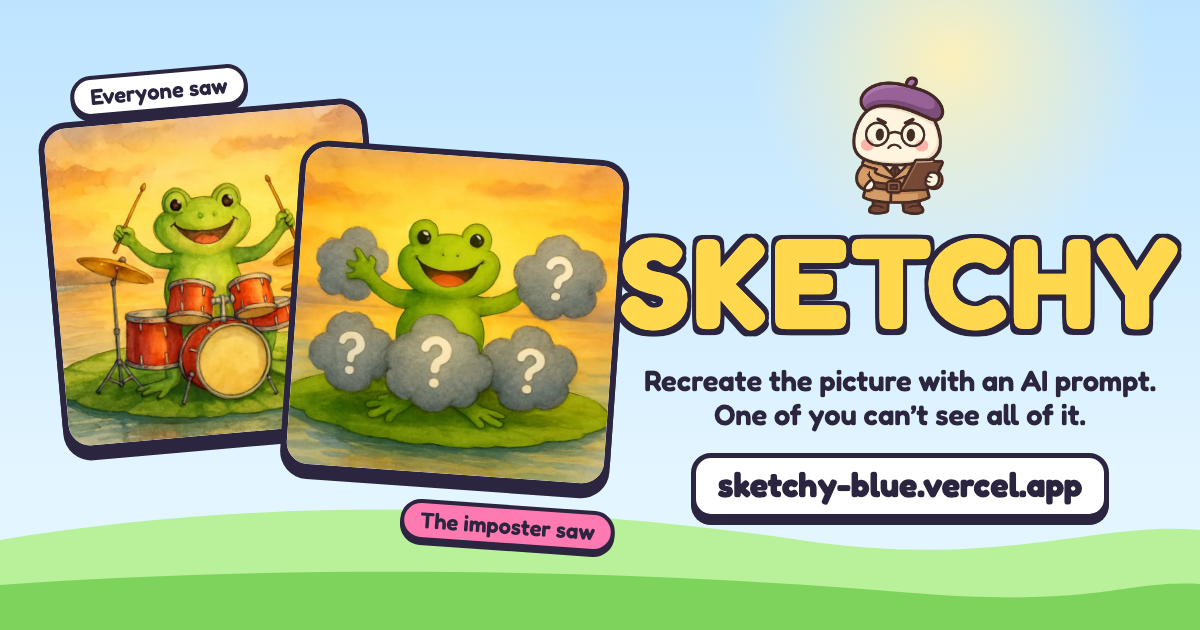
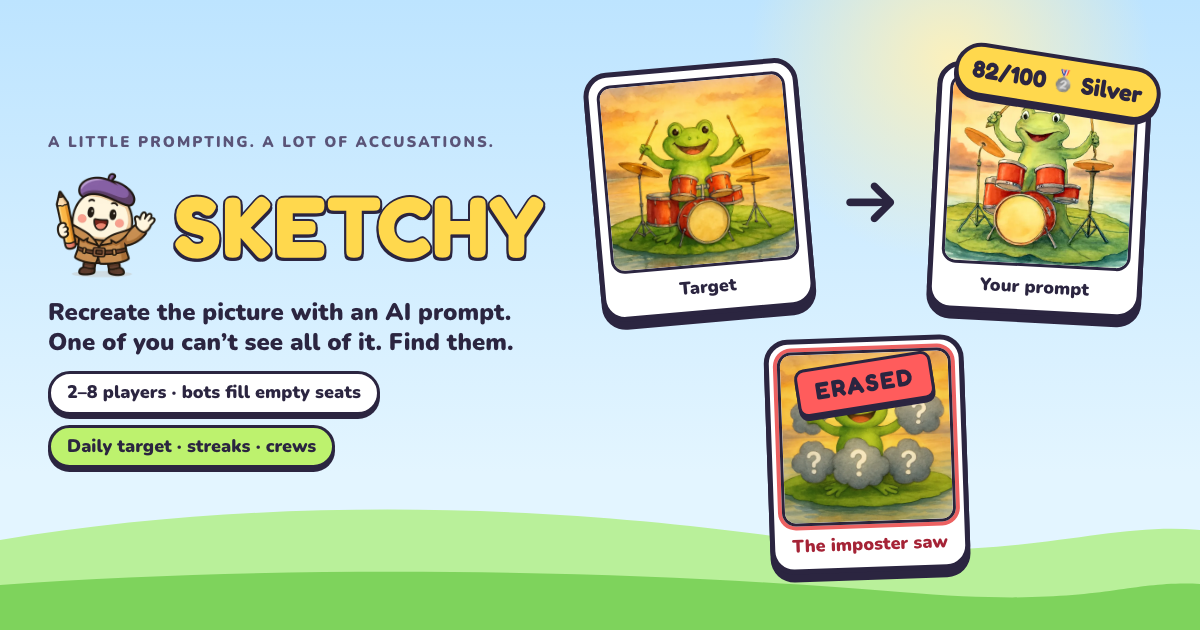
New link-preview cover from the current look (target → AI recreation with tier, imposter's erased view); crews can host a game that appears on every member's card

diff --git a/client/src/screens/Cover.tsx b/client/src/screens/Cover.tsx
@@ -1,22 +1,41 @@
 import { Mascot } from '@/design/components';
+import { DEMO_BOTS, targetById, matchOf } from '../../../convex/targets';
+import { tierInfo, tierOf } from '@shared/types';
+import './cover.css';
 
-/** Submission key art: a sticker-book accusation, composed at exactly 1200 × 630. */
+/**
+ * Key art / link preview, composed at exactly 1200 × 630 and screenshotted into client/public/og.png
+ * (`node --import tsx scripts/make-cover.ts`). Same ingredients as the home page: the sky, the hills, the mascot,
+ * a real target next to a real AI recreation with its score and tier, and what the imposter saw.
+ */
 export function Cover() {
-  return <div className="cover cover--key-art">
-    <div className="cover__hill" />
-    <div className="cover__copy">
-      <span className="cover__eyebrow">DRAW. BLUFF. BUST YOUR FRIENDS.</span>
-      <h1 className="cover__title gold-text">SKETCHY</h1>
-      <p className="cover__sub">One prompt.<br />One imposter.<br />The AI has opinions.</p>
-      <span className="cover__pill">THE AI DRAWING PARTY GAME</span>
+  const t = targetById('frog-band')!;
+  const bot = DEMO_BOTS['frog-band']?.artists[0];
+  const score = bot ? matchOf(bot.final) : 82;
+  const tier = tierInfo(tierOf(score));
+  return (
+    <div className="cover">
+      <div className="cover__sun" />
+      <svg className="cover__hills" viewBox="0 0 1200 150" preserveAspectRatio="none" aria-hidden>
+        <path d="M0 60 C 300 10 600 30 800 60 S 1100 40 1200 50 L1200 150 L0 150Z" fill="#B9F09A" />
+        <path d="M0 105 C 350 80 700 95 900 112 S 1120 100 1200 104 L1200 150 L0 150Z" fill="#7ED35C" />
+      </svg>
+      <div className="cover__copy">
+        <span className="cover__eyebrow">A LITTLE PROMPTING. A LOT OF ACCUSATIONS.</span>
+        <div className="cover__brand"><Mascot mood="happy" size={132} /><h1 className="cover__title gold-text">SKETCHY</h1></div>
+        <p className="cover__sub">Recreate the picture with an AI prompt.<br />One of you can’t see all of it. Find them.</p>
+        <div className="cover__pills"><span className="cover__pill">2–8 players · bots fill empty seats</span><span className="cover__pill cover__pill--lime">Daily target · streaks · crews</span></div>
+      </div>
+      <div className="cover__art" aria-label="A target image, the AI image made from a prompt with its score, and the imposter's erased view">
+        <figure className="cover__card cover__card--target"><img src={t.image} alt="The target" /><figcaption>Target</figcaption></figure>
+        <span className="cover__arrow">→</span>
+        <figure className="cover__card cover__card--mine">
+          <img src={bot?.finalImage || t.image} alt="The AI image from the prompt" />
+          <span className="cover__score">{score}/100 {tier ? `${tier.medal} ${tier.label}` : ''}</span>
+          <figcaption>Your prompt</figcaption>
+        </figure>
+        <figure className="cover__card cover__card--imp"><img src={t.masked} alt="What the imposter saw" /><span className="cover__erased">ERASED</span><figcaption>The imposter saw</figcaption></figure>
+      </div>
     </div>
-    <div className="cover__art" aria-label="Three cat DJs and one suspicious cat chef">
-      <div className="cover__sticker cover__sticker--one"><img src="/demo-art/cat-0.webp" alt="A cat DJ" /></div>
-      <div className="cover__sticker cover__sticker--two"><img src="/demo-art/cat-1.webp" alt="Another cat DJ" /></div>
-      <div className="cover__sticker cover__sticker--three"><img src="/demo-art/cat-2.webp" alt="A third cat DJ" /></div>
-      <div className="cover__sticker cover__sticker--sus"><img src="/demo-art/cat-3.webp" alt="A cat chef, the imposter" /><b>SEEMS SKETCHY.</b></div>
-      <span className="cover__scribble">Who invited the chef?</span>
-      <div className="cover__mascot"><Mascot mood="judge" size={156} /></div>
-    </div>
-  </div>;
+  );
 }

diff --git a/client/src/screens/cover.css b/client/src/screens/cover.css
@@ -1,0 +1,24 @@
+.cover { width: 1200px; height: 630px; position: relative; overflow: hidden; background: linear-gradient(180deg, #BDE4FF 0%, #E3F5FF 75%); color: var(--c-ink); font-family: var(--f-body); display: grid; grid-template-columns: 520px 1fr; align-items: center; padding: 40px 48px 70px; gap: 24px; }
+.cover__sun { position: absolute; right: 40px; top: -150px; width: 420px; height: 420px; border-radius: 50%; background: radial-gradient(circle, rgba(255,241,184,.95) 0%, rgba(255,241,184,0) 68%); }
+.cover__hills { position: absolute; left: 0; bottom: 0; width: 1200px; height: 150px; }
+.cover__copy { position: relative; display: grid; gap: 14px; justify-items: start; }
+.cover__eyebrow { font-size: 15px; letter-spacing: .14em; font-weight: 900; color: var(--c-text-dim); }
+.cover__brand { display: flex; align-items: center; gap: 10px; }
+.cover__brand .mascot { width: 116px; height: 116px; }
+.cover__title { font-family: var(--f-display); font-weight: 700; font-size: 86px; line-height: .9; letter-spacing: .01em; }
+.cover__sub { font-size: 24px; font-weight: 900; line-height: 1.25; margin: 0; }
+.cover__pills { display: flex; gap: 10px; flex-wrap: wrap; }
+.cover__pill { background: #fff; border: 3px solid var(--c-ink); border-radius: 999px; padding: 6px 16px; font-weight: 900; font-size: 18px; box-shadow: 0 4px 0 var(--c-ink); white-space: nowrap; }
+.cover__pill--lime { background: var(--c-lime); }
+.cover__art { position: relative; height: 470px; }
+.cover__card { position: absolute; margin: 0; width: 215px; background: #fff; border: 5px solid var(--c-ink); border-radius: 24px; box-shadow: 0 8px 0 var(--c-ink); padding: 8px 8px 0; }
+.cover__card img { width: 100%; aspect-ratio: 1; object-fit: cover; border-radius: 14px; border: 3px solid var(--c-ink); display: block; }
+.cover__card figcaption { text-align: center; font-weight: 900; font-size: 18px; padding: 8px 0 10px; }
+.cover__card--target { left: 0; top: 0; transform: rotate(-5deg); }
+.cover__card--mine { left: 340px; top: 0; transform: rotate(3deg); }
+.cover__card--imp { left: 175px; top: 272px; transform: rotate(-2deg); width: 200px; }
+.cover__arrow { position: absolute; left: 248px; top: 92px; font-family: var(--f-display); font-size: 64px; font-weight: 700; }
+.cover__score { position: absolute; right: -14px; top: -16px; background: var(--c-yellow); border: 4px solid var(--c-ink); border-radius: 999px; padding: 6px 14px; font-family: var(--f-display); font-weight: 700; font-size: 24px; box-shadow: 0 4px 0 var(--c-ink); transform: rotate(6deg); white-space: nowrap; }
+.cover__card--imp img { box-shadow: 0 0 0 4px var(--c-red); filter: saturate(.85); }
+.cover__erased { position: absolute; left: 50%; top: 18px; transform: translateX(-50%) rotate(-7deg); padding: 4px 16px; border-radius: 10px; background: var(--c-red); border: 3px solid var(--c-ink); color: var(--c-ink); font-family: var(--f-display); font-weight: 700; font-size: 24px; letter-spacing: .08em; box-shadow: 0 4px 0 var(--c-ink); }
+.cover__card--imp figcaption { color: var(--c-danger-text); }

diff --git a/client/src/shell/shell.css b/client/src/shell/shell.css
@@ -149,10 +149,6 @@
 .mini-gallery__item--golden img { box-shadow: 0 0 0 3px var(--c-gold); }
 
 /* ---- Cover (submission image) ---- */
-.cover { width: 1200px; height: 630px; position: relative; overflow: hidden; background: var(--g-stage); display: grid; grid-template-columns: 1fr 1fr; align-items: center; padding: 48px; gap: 32px; }
-.cover__title { font-family: var(--f-display); font-weight: 700; font-size: 120px; line-height: 0.9; }
-.cover__sub { font-size: 30px; font-weight: 900; color: var(--c-ink); margin-top: 16px; }
-.cover__gallery { display: grid; grid-template-columns: 1fr 1fr; gap: 16px; }
 
 .scene { mask-image: linear-gradient(90deg, black 0%, transparent 24%, transparent 76%, black 100%); }
 .landing .scene { mask-image: none; }
@@ -188,23 +184,6 @@
 }
 
 /* Deliberately static, screenshot-ready key art; no timers, cards or UI meters. */
-.cover--key-art { display: block; padding: var(--s-8); background: var(--c-sky); }
-.cover__hill { position: absolute; width: 1600px; height: 500px; left: -200px; bottom: -370px; border-radius: 50%; border: var(--ol); background: var(--c-grass); transform: rotate(-5deg); }
-.cover__copy { position: relative; z-index: 2; display: grid; justify-items: start; gap: var(--s-5); padding-top: var(--s-6); }
-.cover__eyebrow { font-size: var(--t-body-sm); font-weight: 900; letter-spacing: .1em; }
-.cover__copy .cover__title { font-size: 110px; }
-.cover__copy .cover__sub { font-family: var(--f-display); font-size: 38px; line-height: 1.15; margin: 0; }
-.cover__pill { padding: var(--s-3) var(--s-4); background: var(--c-yellow); border: var(--ol); border-radius: var(--r-pill); font-size: var(--t-body-sm); font-weight: 900; transform: rotate(-3deg); }
-.cover__art { position: absolute; inset: 0 0 0 510px; }
-.cover__sticker { position: absolute; width: 240px; height: 240px; border: var(--ol); border-radius: var(--r-lg); box-shadow: var(--sh-pop); background: var(--c-paper); }
-.cover__sticker img { width: 100%; height: 100%; object-fit: cover; border-radius: calc(var(--r-lg) - var(--ol-w)); }
-.cover__sticker--one { top: 40px; left: 20px; transform: rotate(-12deg); }
-.cover__sticker--two { top: 40px; right: 50px; transform: rotate(12deg); }
-.cover__sticker--three { bottom: 52px; left: 46px; transform: rotate(5deg); }
-.cover__sticker--sus { bottom: 56px; right: 60px; transform: rotate(-9deg); box-shadow: var(--sh-pop), 0 0 0 6px var(--c-pink); }
-.cover__sticker--sus b { position: absolute; bottom: 12px; left: -20px; right: -20px; text-align: center; font-family: var(--f-display); font-size: 27px; border: var(--ol); background: var(--c-pink); border-radius: var(--r-sm); padding: var(--s-2); transform: rotate(-5deg); }
-.cover__mascot { position: absolute; top: 223px; left: 230px; transform: rotate(8deg); }
-.cover__scribble { position: absolute; top: 283px; right: 18px; font-family: var(--f-display); font-size: 20px; transform: rotate(8deg); }
 
 .studio__row > span:first-child { min-width: 0; overflow-wrap: anywhere; }
 .studio__row > span:last-child { flex-shrink: 0; }

diff --git a/scripts/live-verify.ts b/scripts/live-verify.ts
@@ -543,10 +543,29 @@ async function duel(ctx: BrowserContext) {
   } finally { await ctx2.close(); }
 }
 
+// ---------------------------------------------------------------- j. crew game (free): host from the crew card, the other member sees the room and joins
+async function crewgame(ctx: BrowserContext) {
+  const p = await page(ctx, PHONE);
+  await p.goto(SITE); await p.getByRole('button', { name: 'Start a crew' }).click(); await p.getByText('Crew started').waitFor();
+  const invite = await p.evaluate(() => navigator.clipboard.readText());
+  const ctxB = await browser.newContext({ reducedMotion: 'reduce' }); const pb = await page(ctxB, PHONE);
+  await pb.goto(invite); await pb.getByText('You joined').waitFor({ timeout: 15_000 });
+  await p.getByRole('button', { name: 'Host a crew game' }).click();
+  await p.waitForURL('**/host?code=*'); const code = new URL(p.url()).searchParams.get('code')!;
+  await pb.locator('.crew__live').waitFor({ timeout: 15_000 });
+  assert.match(await pb.locator('.crew__live').innerText(), new RegExp(`is hosting · room ${code}`));
+  await shot(pb, 'j-crew-live'); await shot(p, 'j-crew-host');
+  await pb.locator('.crew__live').click(); await pb.waitForURL(`**/play?code=${code}`);
+  await pb.getByLabel('Your name', { exact: true }).fill('Friend'); await pb.getByRole('button', { name: 'Join game' }).click(); await pb.getByText('Pace').waitFor();
+  await shot(pb, 'j-crew-joined');
+  note(`Crew game: "Host a crew game" opened room ${code}; the other member's crew card showed the live room and the Join link landed in the lobby`);
+  await ctxB.close(); await p.close();
+}
+
 const which = process.argv[2] || 'all';
 const ctx = await browser.newContext({ reducedMotion: 'reduce', permissions: ['clipboard-read', 'clipboard-write'] });
 try {
-  const flows: Record<string, (ctx: BrowserContext) => Promise<void>> = { landing, daily, demo, mp, social, audit, duel };
+  const flows: Record<string, (ctx: BrowserContext) => Promise<void>> = { landing, daily, demo, mp, social, audit, duel, crewgame };
   for (const [name, fn] of Object.entries(flows)) {
     if (which !== 'all' && which !== name) continue;
     log(`=== ${name}`);

diff --git a/convex/social.ts b/convex/social.ts
@@ -87,6 +87,20 @@ export const crewFromRoom = mutation({
   },
 });
 
+/** A member hosts a game for the crew: the room code goes on every member's crew card. */
+export const setCrewRoom = mutation({
+  args: { code: v.string(), deviceId: v.string(), roomCode: v.string() },
+  handler: async (ctx, { code, deviceId, roomCode }) => {
+    const crew = await crewByCode(ctx, code);
+    const me = crew?.members.find((m) => m.deviceId === deviceId.slice(0, 40));
+    if (!crew || !me) return { ok: false as const, error: 'Not in this crew.' };
+    const room = await ctx.db.query('rooms').withIndex('by_code', (q) => q.eq('code', roomCode.toUpperCase())).unique();
+    if (!room) return { ok: false as const, error: 'No such room.' };
+    await ctx.db.patch('crews', crew._id, { room: { code: room.code, hostName: me.name, at: Date.now() } });
+    return { ok: true as const };
+  },
+});
+
 /** The crew board. `days` are the UTC day keys to total (the client passes the last 7, newest first). */
 export const crewBoard = query({
   args: { code: v.string(), days: v.array(v.string()) },
@@ -102,6 +116,6 @@ export const crewBoard = query({
       return { deviceId: m.deviceId, name: m.name, today: scores[0], week: scores.reduce<number>((n, x) => n + (x ?? 0), 0), played: scores.filter((x) => x !== null).length, streak };
     }));
     members.sort((a, b) => b.week - a.week || (b.today ?? -1) - (a.today ?? -1));
-    return { code: crew.code, name: crew.name, members };
+    return { code: crew.code, name: crew.name, members, room: crew.room ?? null };
   },
 });

diff --git a/client/src/screens/host/HostScreen.tsx b/client/src/screens/host/HostScreen.tsx
@@ -5,6 +5,7 @@ import { go } from '@/nav';
 import { MainShell } from '@/shell/MainShell';
 import { PhaseStage, STUDY_BANNER } from '@/shell/PhaseStage';
 import { useRoom } from '@/state/useRoom';
+import { deviceId } from '@/social/identity';
 import { convex, setSession, saveHostToken, loadHostToken } from '@/net/socket';
 import { api } from '../../../../convex/_generated/api';
 import { LobbyMain } from '@/moments/Lobby';
@@ -30,9 +31,12 @@ export function HostScreen() {
     if (code) { setSession({ code, hostToken: loadHostToken(code) }); return; }
     if (creating.current) return;
     creating.current = true;
+    const crew = new URLSearchParams(location.search).get('crew');
     convex.mutation(api.game.createScreen, {}).then((r) => {
       saveHostToken(r.code, r.hostToken); history.replaceState(null, '', `/host?code=${r.code}`);
       setSession({ code: r.code, hostToken: r.hostToken }); setErr(null);
+      // Hosting for a crew: put the room on everyone's crew card.
+      if (crew) convex.mutation(api.social.setCrewRoom, { code: crew, deviceId: deviceId(), roomCode: r.code }).catch(() => {});
     }).catch(() => setErr('Could not create a room. Please try again.')).finally(() => { creating.current = false; });
   }, []);
 

diff --git a/client/src/social/Social.tsx b/client/src/social/Social.tsx
@@ -8,6 +8,7 @@ import { Button, Card } from '@/design/components';
 import { convex, loadName } from '@/net/socket';
 import { targetById } from '../../../convex/targets';
 import { deviceId, crewCode, saveCrew, lastDays, crewLink } from './identity';
+import { go } from '@/nav';
 import './social.css';
 
 /** 🥇 Gold · 🥈 Silver · 🥉 Bronze, or nothing. */
@@ -112,7 +113,11 @@ export function CrewCard() {
           ))}
         </ol>
       )}
+      {board?.room && Date.now() - board.room.at < 2 * 60 * 60 * 1000 && (
+        <a className="crew__live" href={`/play?code=${board.room.code}`}><b>🎮 {board.room.hostName} is hosting · room {board.room.code}</b><span>Tap to join</span></a>
+      )}
       <div className="crew__actions">
+        <Button size="sm" onClick={() => go(`/host?crew=${code}`)}>Host a crew game</Button>
         <Button size="sm" variant="secondary" onClick={invite}>Invite</Button>
         <Button size="sm" variant="ghost" onClick={() => { saveCrew(null); setCode(null); }}>Leave</Button>
       </div>

diff --git a/scripts/make-cover.ts b/scripts/make-cover.ts
@@ -1,0 +1,9 @@
+/** Screenshots the live /cover route at 1200×630 into client/public/og.png, docs/sketchy-cover.png and video/sketchy-cover-1200x630.png. */
+import { chromium } from '@playwright/test';
+import fs from 'node:fs/promises';
+const SITE = process.env.SITE || 'https://sketchy-blue.vercel.app';
+const b = await chromium.launch(); const p = await b.newPage({ viewport: { width: 1200, height: 630 }, deviceScaleFactor: 1 });
+await p.goto(`${SITE}/cover`); await p.locator('.cover__card img').first().waitFor(); await p.evaluate(() => document.fonts.ready); await p.waitForTimeout(1500);
+const png = await p.screenshot({ clip: { x: 0, y: 0, width: 1200, height: 630 } });
+for (const f of ['client/public/og.png', 'docs/sketchy-cover.png', 'video/sketchy-cover-1200x630.png']) await fs.writeFile(f, png);
+await b.close(); console.log('cover written');

diff --git a/client/src/social/social.css b/client/src/social/social.css
@@ -35,3 +35,7 @@
 .crew__actions { display: flex; gap: var(--s-2); }
 .crew__note { margin: 0; font-size: var(--t-body-sm); font-weight: 800; color: var(--c-text-dim); }
 .duel__kicker { font-size: var(--t-body-xs); font-weight: 900; letter-spacing: .08em; text-transform: uppercase; color: var(--c-text-dim); }
+.crew__live { display: grid; gap: 2px; padding: 8px 12px; border-radius: var(--r-md); background: var(--c-lime); border: 2px solid var(--c-ink); color: var(--c-ink); text-decoration: none; box-shadow: 0 3px 0 var(--c-ink); }
+.crew__live b { font-family: var(--f-display); font-size: var(--t-body-md); }
+.crew__live span { font-size: var(--t-body-xs); font-weight: 900; color: var(--c-ink); }
+.crew__actions { flex-wrap: wrap; }

diff --git a/convex/schema.ts b/convex/schema.ts
@@ -30,6 +30,8 @@ export default defineSchema({
   crews: defineTable({
     code: v.string(), name: v.string(),
     members: v.array(v.object({ deviceId: v.string(), name: v.string(), joinedAt: v.number() })),
+    /** A game a member is hosting right now, shown on everyone's crew card with a Join link. */
+    room: v.optional(v.object({ code: v.string(), hostName: v.string(), at: v.number() })),
   }).index('by_code', ['code']),
   /** Daily cap on paid AI jobs across all rooms. */
   aiBudget: defineTable({ day: v.string(), image: v.number(), judge: v.number() }).index('by_day', ['day']),

diff --git a/HANDOFF.md b/HANDOFF.md
@@ -76,6 +76,7 @@ Fit-to-viewport layouts at 100% zoom; player screen with right-hand players + ch
 - **Challenges** (`convex/social.ts`): "Copy challenge" in the share dialog copies `I scored N/100 (Tier) on this Sketchy picture. Beat me: <site>/daily?c=<attemptId>`. The link opens the daily entry as "You've been challenged" (`ChallengeCard`), `createDemo` takes `challengeId` and forces that target, and FINAL shows the **duel** (`Duel`: both images, prompts, tiers, winner highlighted). A challenge on today's target also counts as the daily; another target is kind `challenge` and leaves the streak alone.
 - **Crews** (friends): `crews` table (code + members by device id). Landing `CrewCard`: start a crew (copies `/?crew=CODE`), join from the link, board with today's score + tier, streak and the week's total (`crewBoard`, client passes the last 7 UTC day keys). Party games: the host's "Keep this group as a crew" on FINAL (`crewFromRoom`) puts every seated device in a crew; the room carries `crewCode` so every phone saves it.
 - **Target generation**: `scripts/make-targets.ts` (LLM spec → gpt-image-1-mini paints → the edit model erases the key prop under a grey "?" cloud). 16 new targets reviewed and kept (koala-gamer dropped: the console stayed visible in the mask). Library is now 28. Cost ≈ 2 medium images + 1 text call per target (≈ 4–5¢). Adding targets changes that day's daily pick for everyone (`dailyTarget` indexes by library length), so add them late in the day. Never run it while people are playing: on Oct 10 it starved fal and a whole live round fell back ("The image model couldn't draw that prompt", judge fallback, settle timer), which at least proved every fallback path live.
+- **Crew games**: "Host a crew game" on the crew card opens `/host?crew=CODE`; the host page records the room on the crew (`social.setCrewRoom`), and every member's crew card shows "X is hosting · room CODE · Tap to join" for two hours (free `crewgame` verification flow).
 - Verification flow `social` in `scripts/live-verify.ts`; the `mp` flow now ends with the crew step.
 
 ## 4e. Shipped October 10, evening: bots fill the table, duels, favicon, mobile pass
@@ -118,7 +119,7 @@ My estimate (not a prediction): Execution 4, Creativity 4–5, Usefulness 4, Pol
 ## 8. What's left (highest impact first)
 
 1. Real playtest: 4+ people, phones, Prompt mode. Note confusion and bugs.
-2. Cover image still shows Sketch-mode art: regenerate `docs/sketchy-cover.png` and `client/public/og.png` from Prompt-mode screens (SUBMISSION.md and README are updated).
+2. ~~Cover image~~ done Oct 10: `/cover` route (`screens/Cover.tsx` + `cover.css`) rendered by `scripts/make-cover.ts` into `og.png`, `docs/sketchy-cover.png` and the video cover (render from a local `vite preview` or the live site).
 3. Domain (planned playsketchy.com or trysketchy.com): buy, add to the Vercel project, update the share-card site text (it uses `location.host`, so it updates automatically).
 4. Phone pass of Prompt-mode screens (study, writer, refine, results) on a real small phone.
 5. More solo-demo content (pre-made bot rounds for more targets) so replays vary.

diff --git a/README.md b/README.md
@@ -29,7 +29,7 @@ Scoring: correct vote +100 (+150 on a streak) · imposter escapes +200 · steal 
 
 - `/daily`: one shared target per UTC day, one quick round vs bots. Scores earn tiers (Bronze 60, Silver 75, Gold 85); Bronze or better keeps the streak.
 - Every scored prompt-mode final is recorded in the `attempts` table under a per-device id (no login). "Copy challenge" on any result makes a link (`/daily?c=<attempt>`) that opens the same picture and ends in a side-by-side duel.
-- Crews: "Start a crew" on the home page or "Keep this group as a crew" at the end of a party game; the invite link (`/?crew=CODE`) joins; the board shows today's score, tier, streak and the week's total per member.
+- Crews: "Start a crew" on the home page or "Keep this group as a crew" at the end of a party game; the invite link (`/?crew=CODE`) joins; the board shows today's score, tier, streak and the week's total per member. "Host a crew game" puts the room code on every member's card with a Join link.
 - Fewer than 4 players: bots (Pixel, Doodle, Smudge) fill the table at start with recorded prompts, images and scores (no AI cost). With exactly 2 humans a bot is always the imposter and the final shows a head-to-head.
 - Bot content: `node --import tsx scripts/make-bot-content.ts` records 3 artists + 1 imposter per target (8 images + 8 judge calls ≈ 10¢ per target). Icons: `node --import tsx scripts/make-icons.ts`.
 - New targets: `node --import tsx scripts/make-targets.ts --count 5` (needs `FAL_KEY`; writes images + `convex/targets.json`; review the masked versions before committing; never run it while people are playing, it starves the live image model).
